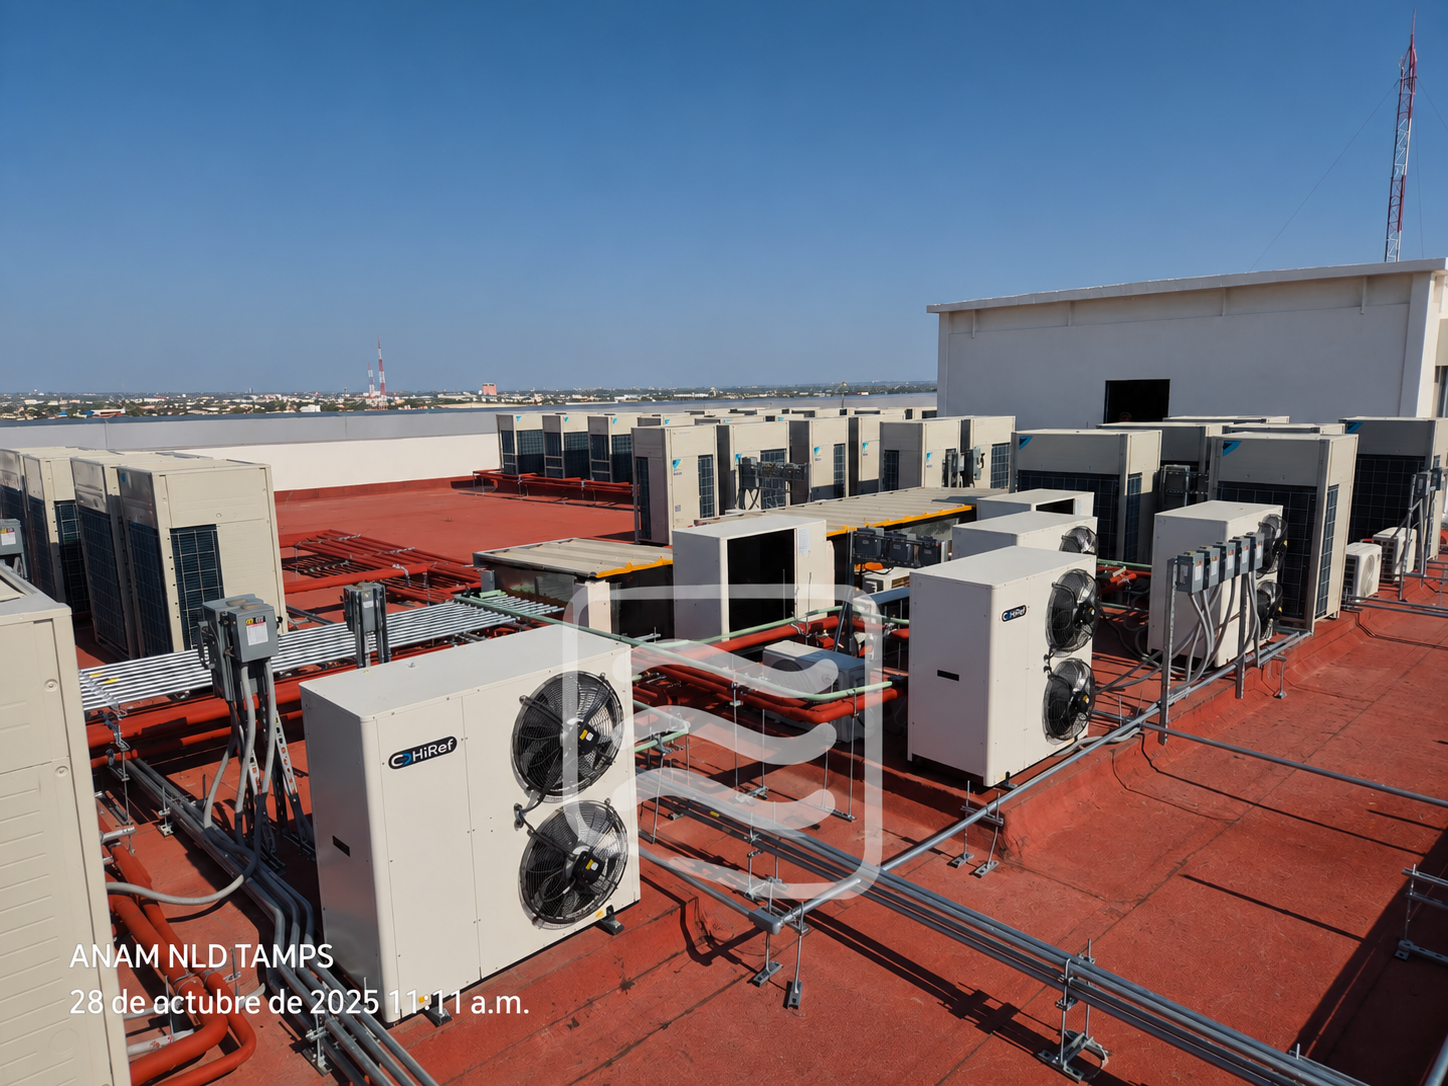
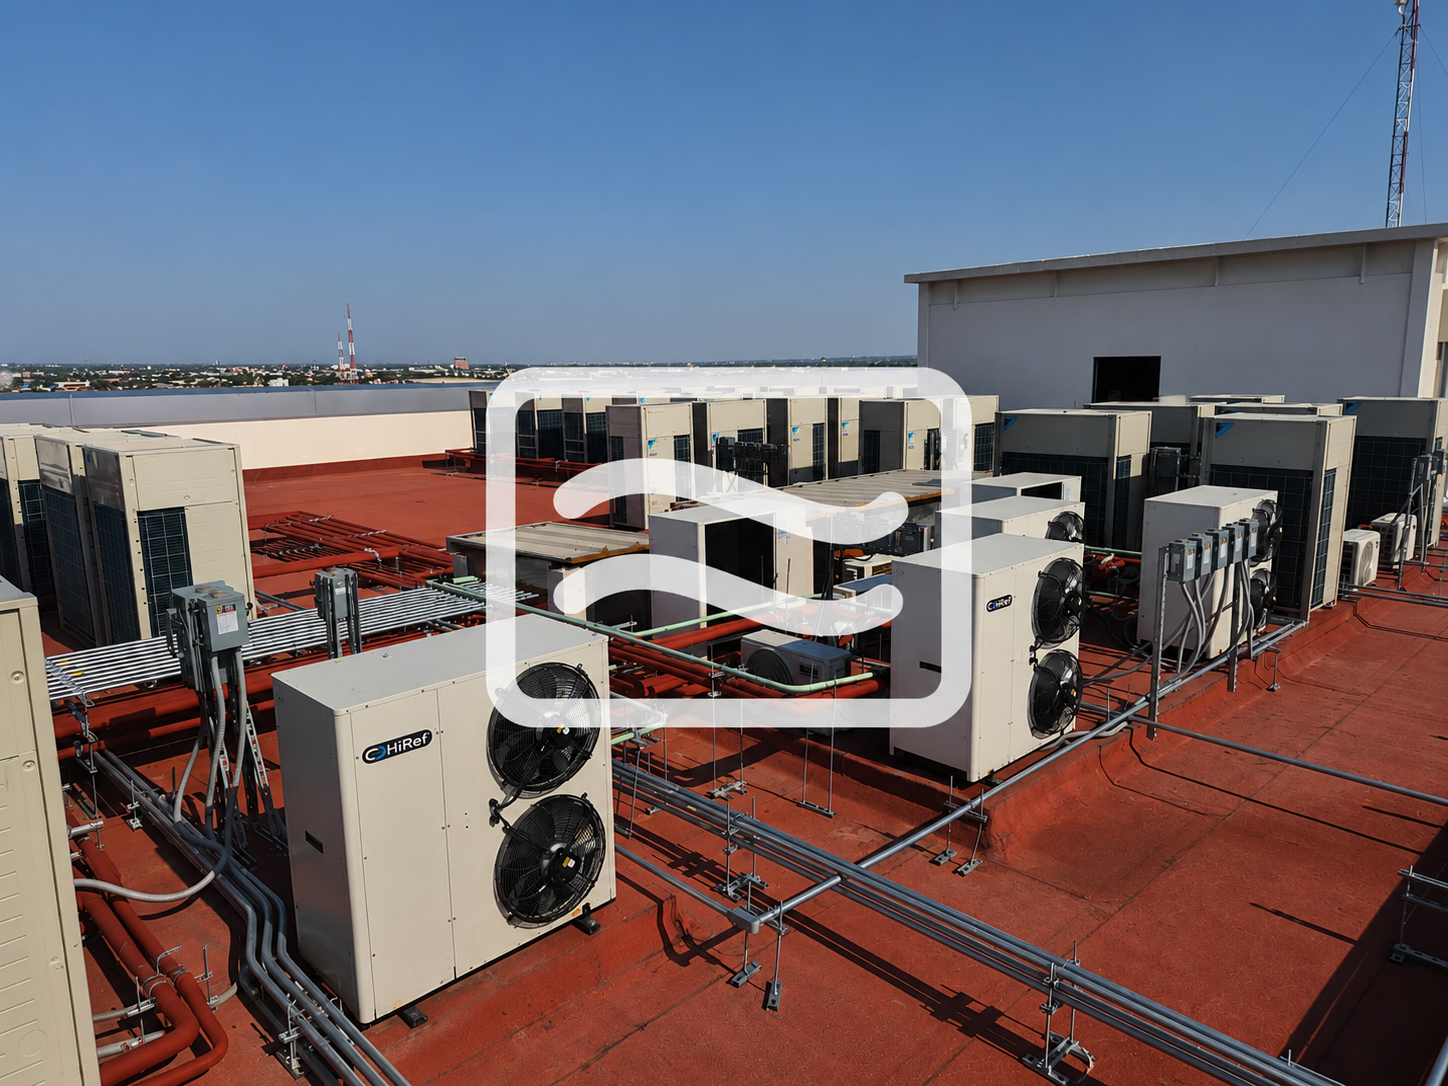
Ultima marca de agua

diff --git a/src/hero.html b/src/hero.html
@@ -81,7 +81,7 @@
           <div data-carousel-slide class="absolute inset-0 opacity-0 pointer-events-none transition-opacity duration-700 ease-out"><img src="images/assets/hero1.png" alt="Sistema HVAC institucional" class="w-full h-full object-cover"></div>
           <div data-carousel-slide class="absolute inset-0 opacity-0 pointer-events-none transition-opacity duration-700 ease-out"><img src="images/assets/hero7.png" alt="Instalación climatización" class="w-full h-full object-cover"></div>
           <div data-carousel-slide class="absolute inset-0 opacity-0 pointer-events-none transition-opacity duration-700 ease-out"><img src="images/assets/hero3.png" alt="Proyecto HVAC" class="w-full h-full object-cover"></div>
-          <div data-carousel-slide class="absolute inset-0 opacity-0 pointer-events-none transition-opacity duration-700 ease-out"><img src="images/assets/hero6.png" alt="Equipos climatización" class="w-full h-full object-cover"></div>
+          <div data-carousel-slide class="absolute inset-0 opacity-0 pointer-events-none transition-opacity duration-700 ease-out"><img src="images/assets/hero.jpeg" alt="Equipos climatización" class="w-full h-full object-cover"></div>
           
           
           
